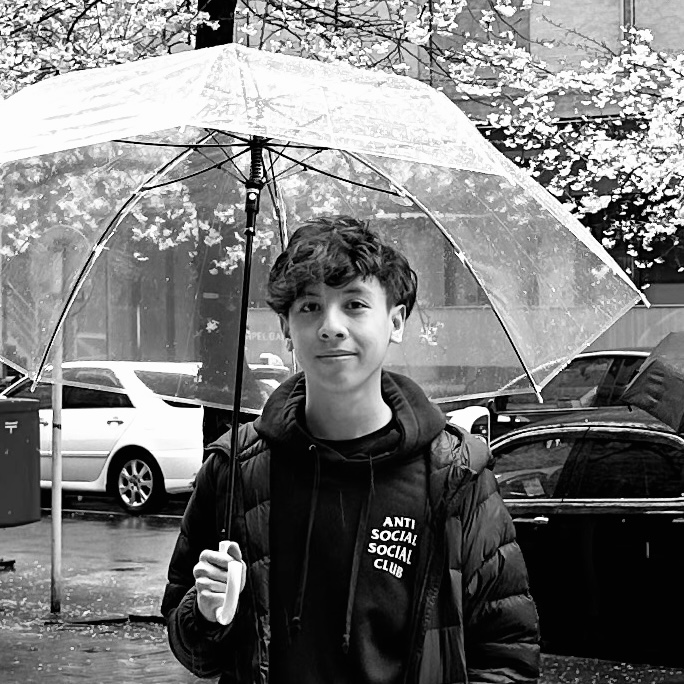
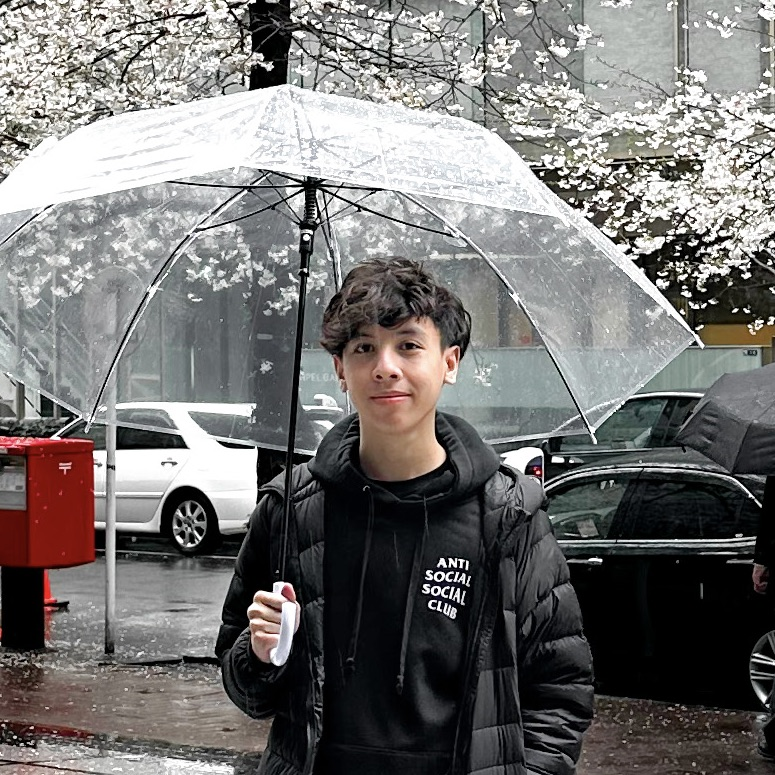
update my photo

diff --git a/about.html b/about.html
@@ -61,7 +61,7 @@
             </div>
         </div>
 
-        <div class="topic about">
+        <div class="topic">
             <div class="topicImage">
                 <img src="Asset-About/Me.jpg" alt="Photo of Me in Tokyo">
             </div>
